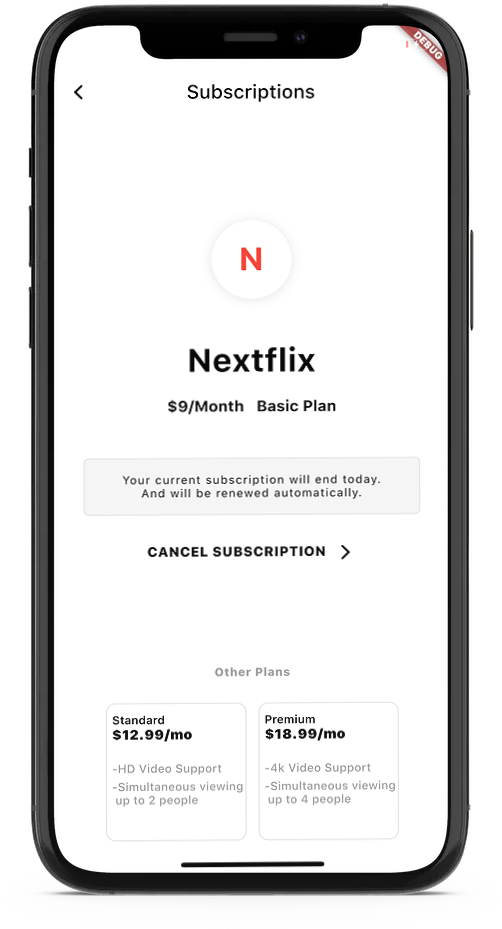
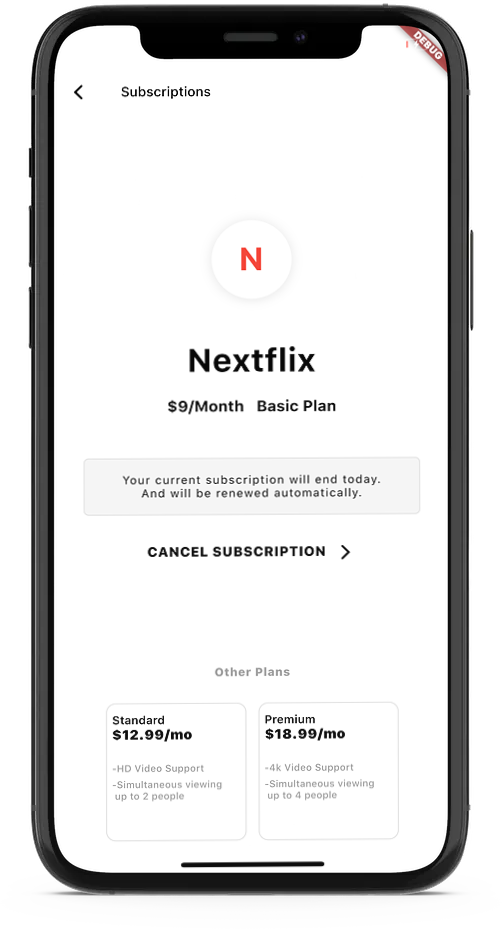
Fixed app bar title alignment

Changed region(s): [[0.2092, 0.8116, 0.4781, 0.8741], [0.5378, 0.8116, 0.7769, 0.8741], [0.239, 0.0936, 0.6275, 0.1249]]

diff --git a/lib/main.dart b/lib/main.dart
@@ -31,13 +31,14 @@ class _NetflixSubscriptionState extends State<NetflixSubscription> {
   Widget build(BuildContext context) {
     return Scaffold(
       appBar: AppBar(
+        centerTitle: false,
         leading: Icon(
           CupertinoIcons.back,
           color: Colors.black,
         ),
         title: Text(
           'Subscriptions',
-          style: TextStyle(color: Colors.black),
+          style: TextStyle(color: Colors.black,fontSize: 14),
         ),
         elevation: 0,
         backgroundColor: Colors.white,
@@ -165,7 +166,9 @@ class _NetflixSubscriptionState extends State<NetflixSubscription> {
                   child: _buildFeatureLabel('-4k Video Support'),
                 ),
                 Padding(
-                  padding: const EdgeInsets.only(top: 5.0),
+                  padding: const EdgeInsets.only(
+                    top: 5.0,
+                  ),
                   child: _buildFeatureLabel(
                       '-Simultaneous viewing\n up to 4 people'),
                 ),
@@ -195,7 +198,7 @@ class _NetflixSubscriptionState extends State<NetflixSubscription> {
           letterSpacing: 0.2,
           color: Colors.grey,
           fontWeight: FontWeight.w500,
-          fontSize: 12),
+          fontSize: 10),
       textAlign: TextAlign.start,
     );
   }
